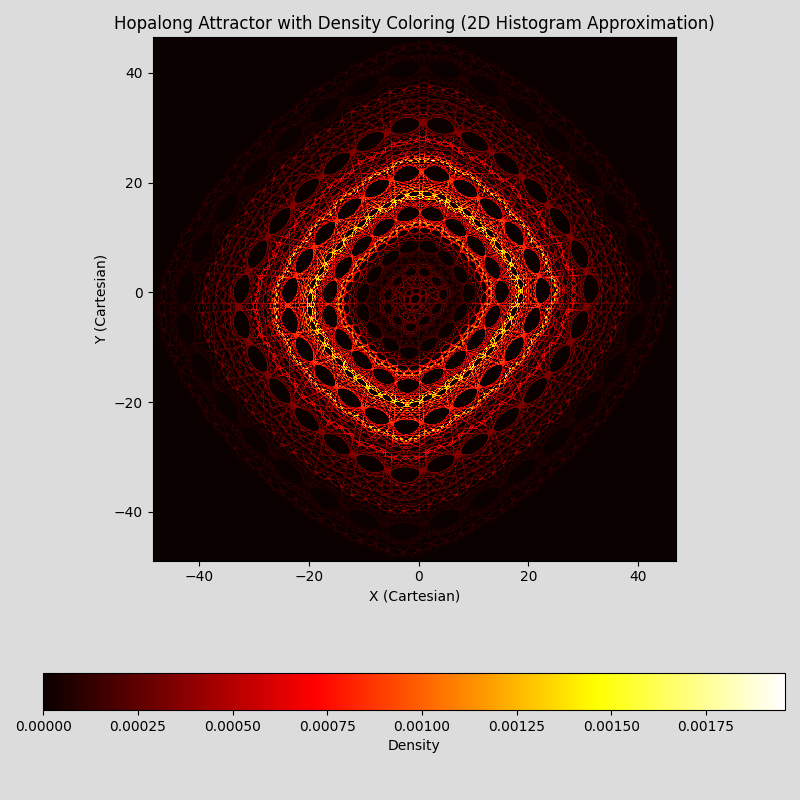
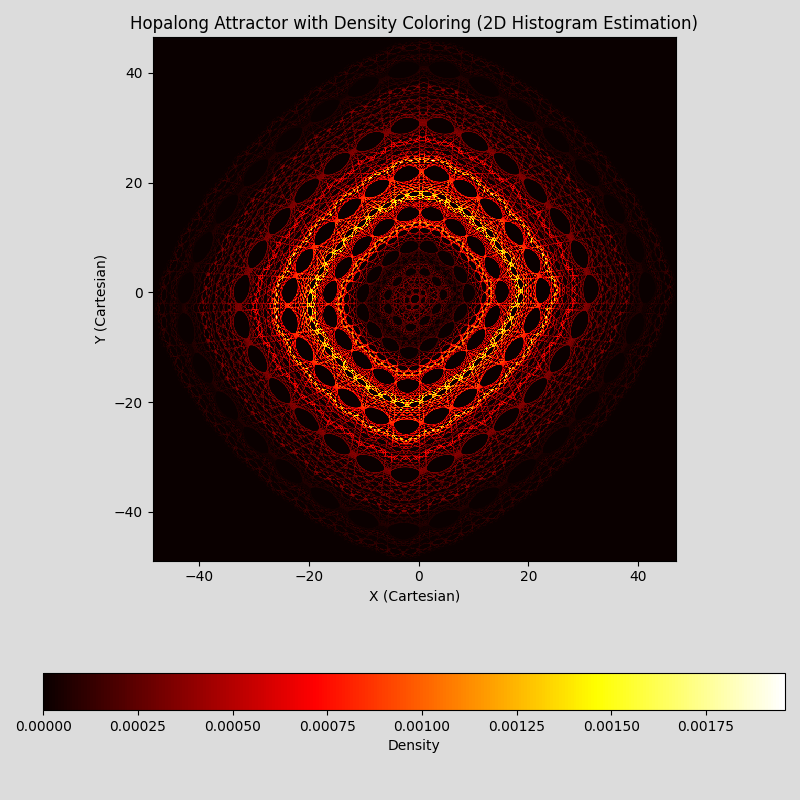
modified:   Development/PDF/PDF_Hist_one_pass.py modified:   examples/true_PDF_histogram.png

Changed region(s): [[0.1562, 0.0, 0.875, 0.0625]]

diff --git a/Development/PDF/PDF_Hist_one_pass.py b/Development/PDF/PDF_Hist_one_pass.py
@@ -75,7 +75,7 @@ def plot_trajectory_with_density(trajectory):
     cbar = fig.colorbar(img, ax=ax, location='bottom')
     cbar.set_label('Density')  # Title for colorbar
 
-    ax.set_title('Hopalong Attractor with Density Coloring (2D Histogram Approximation)')
+    ax.set_title('Hopalong Attractor with Density Coloring (2D Histogram Estimation)')
     ax.set_xlabel('X (Cartesian)')
     ax.set_ylabel('Y (Cartesian)')
     #ax.axis('equal')
